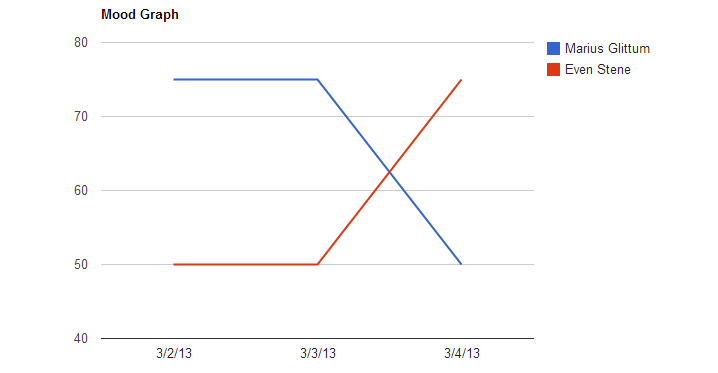
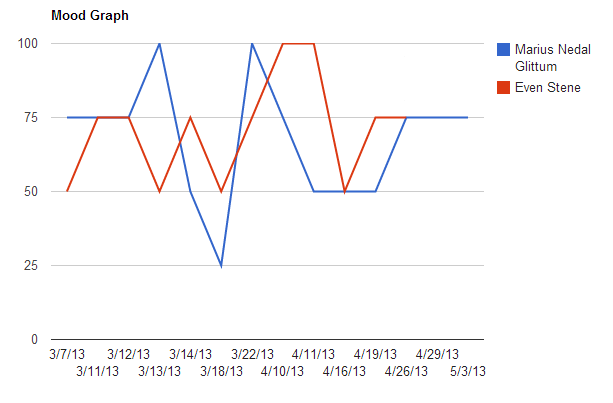
work on implementation and mood graphs, not much left now

diff --git a/Report/Implementation.tex b/Report/Implementation.tex
@@ -56,17 +56,27 @@ Reflection directed functionality:
 \item Reflection triggers - Functionality developed specifically for helping users reflect on their work.
 \end{itemize}
 
-\paragraph{Scaffold collected data}\mbox{}\\
+\paragraph{Daily reflection note}\mbox{}\\
 Scaffolding is the act of creating a skeleton or a frame for the work to be done. I
-PeacefulBanana provides users with the ability to create reflection notes, where they reflect on that day's work and store it for later use. In this context the scaffolding is creating a frame for the reflection to be done, which includes text input and guiding questions. An example of such a reflection note can be seen in Figure \ref{dailynote}. \\
+PeacefulBanana provides users with the ability to create reflection notes, where they reflect on that day's work and store it for later use. In this context the scaffolding is creating a frame for the reflection to be done, which includes text input and guiding questions. An example of such a reflection note can be seen in Figure \ref{dailynotefunc}. \\
 In order to encourage users to reflect on their daily work and to avoid generic or non-constructive input, we connected questions to each input field, to act as guidance. For each input, the application provides a question, like \emph{How did you feel about todays work?} for the mood input. Adding these questions helps users think back on their experiences that day and perform a reflection on these. 
 \begin{figure}[H]
     \centering
         \includegraphics[width=\textwidth]{dailynote}
     \caption{PeacefulBanana reflection note}
-    \label{dailynote}
+    \label{dailynotefunc}
 \end{figure}
 
+\paragraph{Mood graphs}\mbox{}\\
+When creating a reflection note, users can connect their current mood, that is how they felt, to the reflection note. By adding the ability to connect mood to notes each day, the tool can present meaningful mood-averages back to the users. These mood averages are used by PeacefulBanana to generate a mood-graph, depicting a user's or a team's mood over a period of time. 
+By presenting this shared team-average mood, user's get an indication of how the work is perceived by the other group members and the team can create a discussion around certain trends in mood, or even why certain users stand out from the rest of the team's mood. 
+An example of such a mood graph can be seen in Figure: \ref{moodgraphfunc}
+\begin{figure}[H]
+    \centering
+        \includegraphics[width=\textwidth]{moodgraph}
+    \caption{PeacefulBanana Team Mood-graph}
+    \label{moodgraphfunc}
+\end{figure}
 \paragraph{Tag-clouds}\mbox{}\\
 PeacefulBanana also provides the user with individual and team-wide tag-clouds. These tag-clouds are based on the user's or the team's activity in a GitHub project over a period of time. The tag-cloud elements are weighted according to how much the particular \emph{\#tag} has been worked with, the more activity the bigger the word. Implementation of the tag-clouds allows user's to see trending events in their own activity trajectory, but also compare it with the rest of the team. This enables the user to see how their work is affecting the team's work, but also gives the team an indication on what has been worked with over different periods of time(i.e. a development iteration). 
 \begin{figure}[H]
@@ -91,10 +101,6 @@ Figure \ref{MyNotes} shows how PeacefulBanana user's can see their notes and the
     \caption{PeacefulBanana shared team notes}
     \label{notes_sharedfunc}
 \end{figure}
-
-\paragraph{Mood graphs}\mbox{}\\
-A user can connect his mood to reflection notes. The tool retrieves this mood data daily, in order for the tool to present meaningful mood-averages back to the users. 
-The tool allows for presenting this shared team-average mood, giving an indication of how the work is perceived by the other group members and create a discussion around certain trends in mood, or even why certain users stand out from the rest of the team's mood. 
 
 \subsubsection{Milestone example}
 % Vise et eksempel fra milestone
